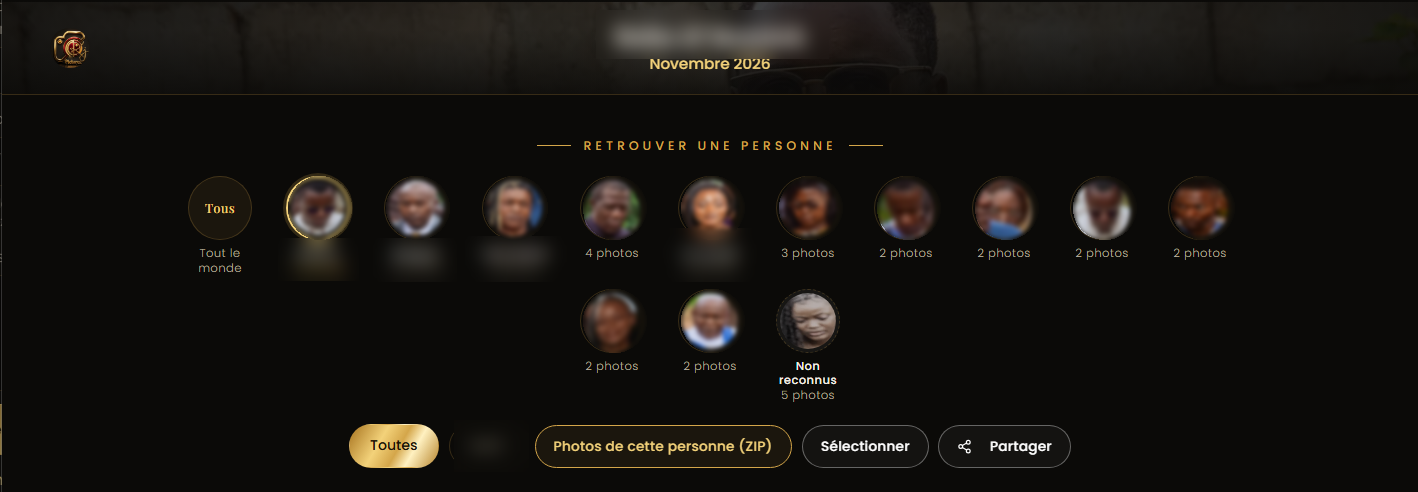
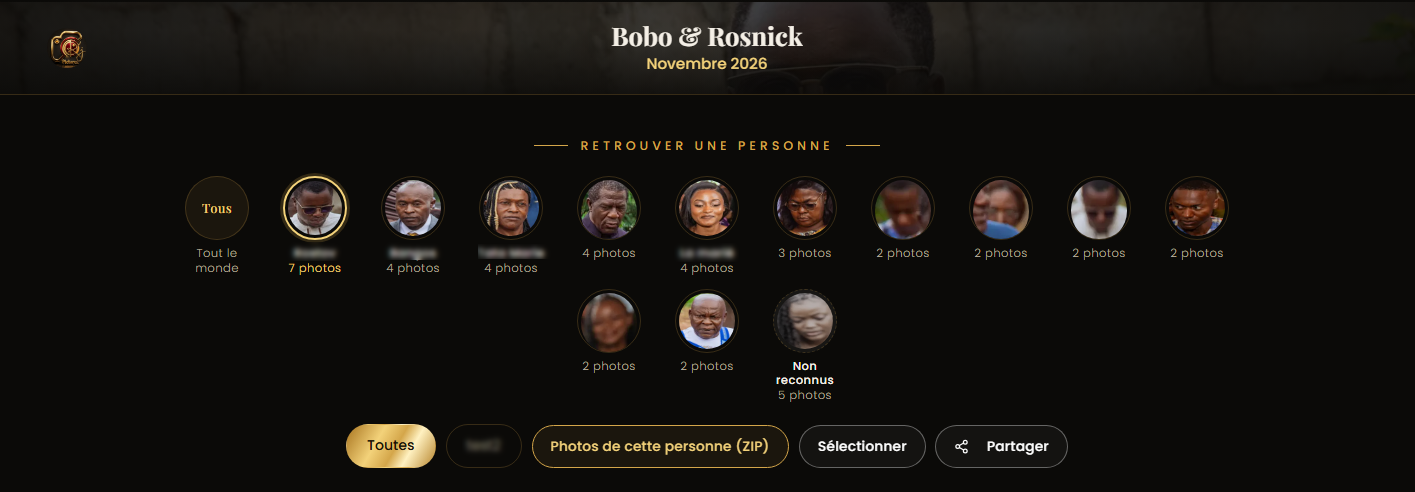
docs: actualiser les captures KJ Pictures [skip ci]

diff --git a/README.md b/README.md
@@ -30,11 +30,11 @@ Après un mariage, un anniversaire ou une séance, les photos peuvent être part
 
 ![Accès par code à une galerie privée KJ Pictures](docs/public/kj-pictures-galerie-privee-code.png)
 
-La recherche d’une personne reste privée : les noms sont masqués et les visages dans les aperçus sont volontairement légèrement floutés dans cette présentation publique.
+La galerie privée propose aussi une recherche par personne après validation du code d’accès.
 
 ![Aperçu public de la recherche dans une galerie privée](docs/public/kj-pictures-galerie-privee-personnes.png)
 
-Cette présentation n’affiche aucune photo de client identifiable.
+Les captures ont été fournies par KJ Pictures pour présenter cette expérience privée.
 
 ## Développement local
 
